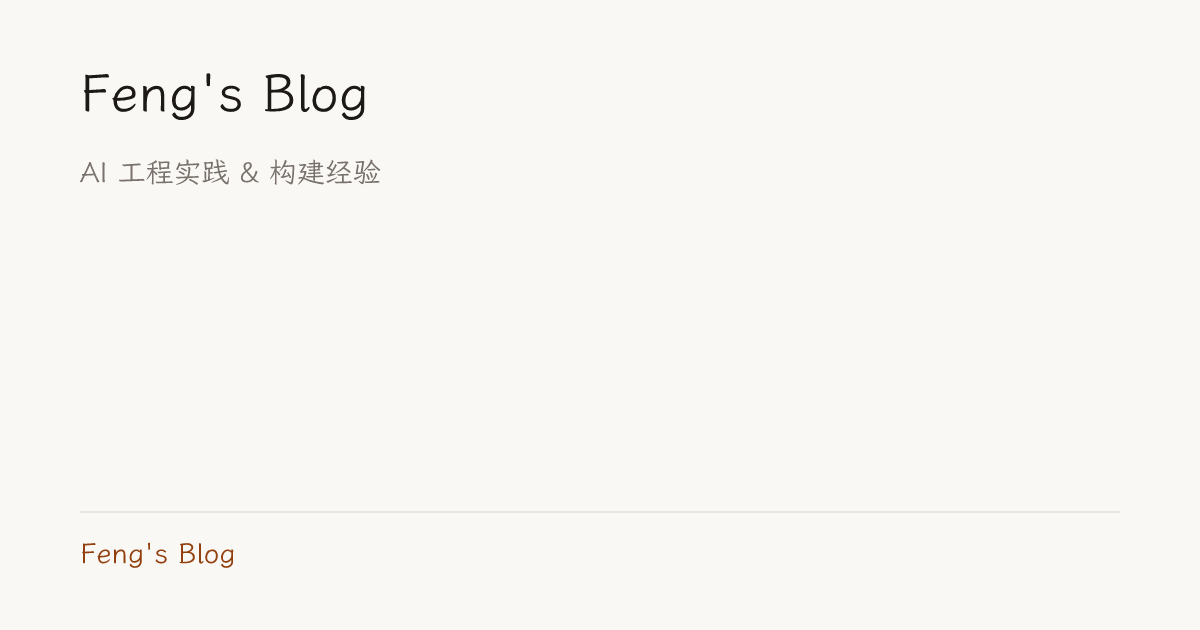
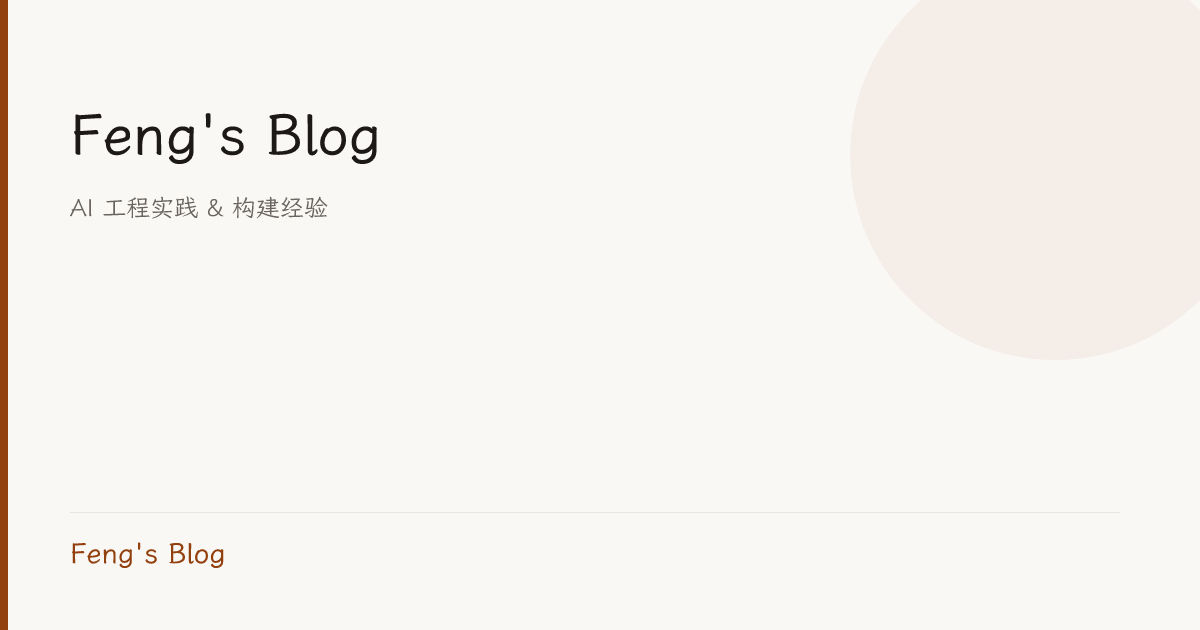
feat: 添加 build:og 脚本自动 amend satori 图片 - 新增 post-og-commit.js 脚本，检测 public/og/ 变化并自动 amend commit - 添加 npm run build:og 命令，构建后自动提交生成的图片 - 更新 AGENTS.md 文档说明本地构建与提交流程

Changed region(s): [[0.0617, 0.1206, 0.3392, 0.3619], [0.0, 0.0, 0.0308, 1.0], [0.0617, 0.8444, 0.2158, 0.9048]]

diff --git a/scripts/post-og-commit.js b/scripts/post-og-commit.js
@@ -1,0 +1,59 @@
+import { execSync } from 'child_process';
+import fs from 'fs';
+import path from 'path';
+import { fileURLToPath } from 'url';
+
+const __dirname = path.dirname(fileURLToPath(import.meta.url));
+const rootDir = path.resolve(__dirname, '..');
+const OG_DIR = path.join(rootDir, 'public/og');
+
+function isInGitRepo() {
+  try {
+    execSync('git rev-parse --is-inside-work-tree', { stdio: 'pipe' });
+    return true;
+  } catch {
+    return false;
+  }
+}
+
+function hasOGImageChanges() {
+  try {
+    const status = execSync('git status --porcelain public/og/', { stdio: 'pipe' }).toString();
+    return status.trim().length > 0;
+  } catch {
+    return false;
+  }
+}
+
+function amendCommit() {
+  try {
+    execSync('git add public/og/', { stdio: 'inherit' });
+    execSync('git commit --amend --no-edit', { stdio: 'inherit' });
+    console.log('[post-og-commit] Amended commit with new OG images');
+  } catch (err) {
+    console.error('[post-og-commit] Failed to amend commit:', err.message);
+    process.exit(1);
+  }
+}
+
+function main() {
+  if (!isInGitRepo()) {
+    console.log('[post-og-commit] Not in git repo, skipping');
+    return;
+  }
+
+  if (!fs.existsSync(OG_DIR)) {
+    console.log('[post-og-commit] No public/og/ directory, skipping');
+    return;
+  }
+
+  if (!hasOGImageChanges()) {
+    console.log('[post-og-commit] No OG image changes, skipping');
+    return;
+  }
+
+  console.log('[post-og-commit] Found OG image changes, amending commit...');
+  amendCommit();
+}
+
+main();